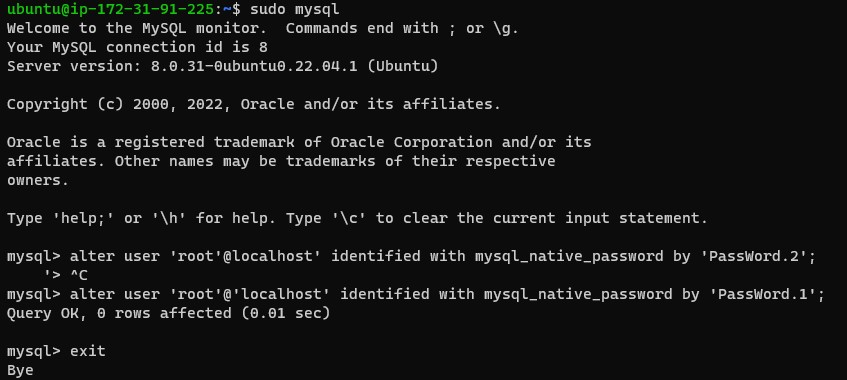
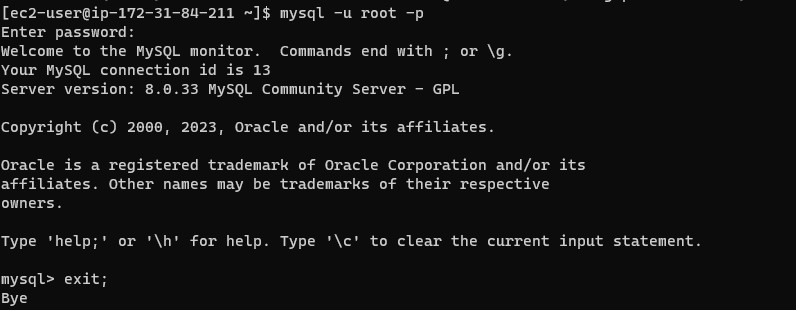
updated the configurations

diff --git a/project5.md b/project5.md
@@ -18,7 +18,7 @@
 
 
 
-## **LABs**
+# **LABs**
 
 > Step 1 - Create and configure two Linux-based virtual servers (EC2 instances in AWS).
 
@@ -26,7 +26,17 @@
 
 > Step 2 - Installing MySQL server on the first server
 
-    sudo apt install mysql-server 
+    sudo wget  https://dev.mysql.com/get/mysql80-community-release-el9-1.noarch.rpm 
+---
+    sudo dnf install -y mysql80-community-release-el9-1.noarch.rpm
+---
+    sudo dnf repolist enabled | grep "mysql.*-community.*"
+---
+    sudo dnf install mysql-community-server -y
+---
+    sudo systemctl start mysqld
+    sudo systemctl status mysqld
+    sudo systemctl enable mysqld
 
 > Edit security group and enable port 3306 for inbound connections
 
@@ -34,13 +44,18 @@
 
 > After installation, login into the MySQL console
 
-    sudo mysql
+    sudo grep 'temporary password' /var/log/mysqld.log
 
-> Set the root password 
+> Connect to MySQL – Change temporary password
 
 ```SQL
-    ALTER USER 'root'@'localhost' IDENTIFIED WITH mysql_native_password BY 'PassWord.1';
+    sudo mysql_secure_installation
 ```
+
+> Login in mysql server after installation
+
+    sudo mysql -u root -p
+
 ![sql_root](./images/mysql_root.jpg)
 
 > Exit the MySQL shell
@@ -49,67 +64,57 @@
  
 ![exit](./images/exit.jpg)
 
-> Start the interactive mysql script and go through the wizard
-
-    sudo mysql_secure_installation
-
-![mysql secure installation](./images/mysql_installation.jpg)
-
-
-> Login into the the MySQL console with the new 'root' password 
-
-    sudo mysql -p
-
-![mysql login](./images/mysql_login.jpg)
-
-
-> Exit the MySQL console
-
-    exit
-
-![exit](./images/exit.jpg)
-
 
 > Step 3 - Edit MySQL configuration file, change the bind addressess settings and enable remote connection
 
-    sudo vi /etc/mysql/mysql.conf.d/mysqld.cnf
+    sudo vi /etc/my.cnf
 
-    Under the bind addresses section, replace ‘127.0.0.1’ to ‘0.0.0.0’ 
+    Under the [mysqld] section, add the following line
 
-    Enable remote connection 
-
-    Under basic settings, uncomment port = 3306 by removing the '#' sign
+        bind-address = 0.0.0.0 
 
 ![remote connection configuration](./images/config.jpg)
 
-
 > Restart MySQL server
 
-    sudo systemctl enable mysql
-
-![restarting mysql server](./images/restart_mysql_server.jpg)
+    sudo systemctl restart mysqld
 
 > Create a new user on MySQL server for remote connection using the local ip address
 
-    CREATE USER 'funmibi'@'local-Ip-address' IDENTIFIED WITH mysql_native_password BY 'password';
-
-    GRANT ALL PRIVILEGES ON *.* TO 'funmibi'@'local-ip-address' WITH GRANT OPTION;
-
+    sudo mysql -u root -p
+---
+    CREATE USER 'funmibi'@'172.31.81.11' IDENTIFIED BY '8x9d/flp?(Rf';
+---
+    GRANT ALL PRIVILEGES ON *.* TO 'funmibi'@'172.31.81.11' WITH GRANT OPTION;
+---
     FLUSH PRIVILEGES;
 
 ![remote user](./images/remote_user.jpg)
 
 > Install mysql client on the second server 
 
-    sudo apt install mysql-client-core-8.0
+    sudo wget https://repo.mysql.com//mysql80-community-release-el9-1.noarch.rpm
+---
+     sudo rpm -ivh mysql80-community-release-el9-1.noarch.rpm
+---
+    sudo dnf repolist enabled | grep "mysql.*-community.*"
+---
+    sudo yum update
+---
+    sudo yum install mysql-community-client
+---
+    sudo mysql --version
 
 ![installing mysql client](./images/mysql_client.jpg)
-
 
 > Connect to the MySQL server from the client server without using SSH
 
     mysql -u username -h mysql_server_ip -p
-
-    mysql -u funmibi -h 172.31.86.242 -p
+---
+    mysql -u funmibi -h 172.31.84.82 -p
 
 ![remote_login](./images/remote_login.jpg)
+
+
+
+

diff --git a/README.md b/README.md
@@ -1,2 +1,3 @@
 # project5-CLIENT-SERVER
 Client-Server Architecture Using A MySQL Relational Database Management System
+
